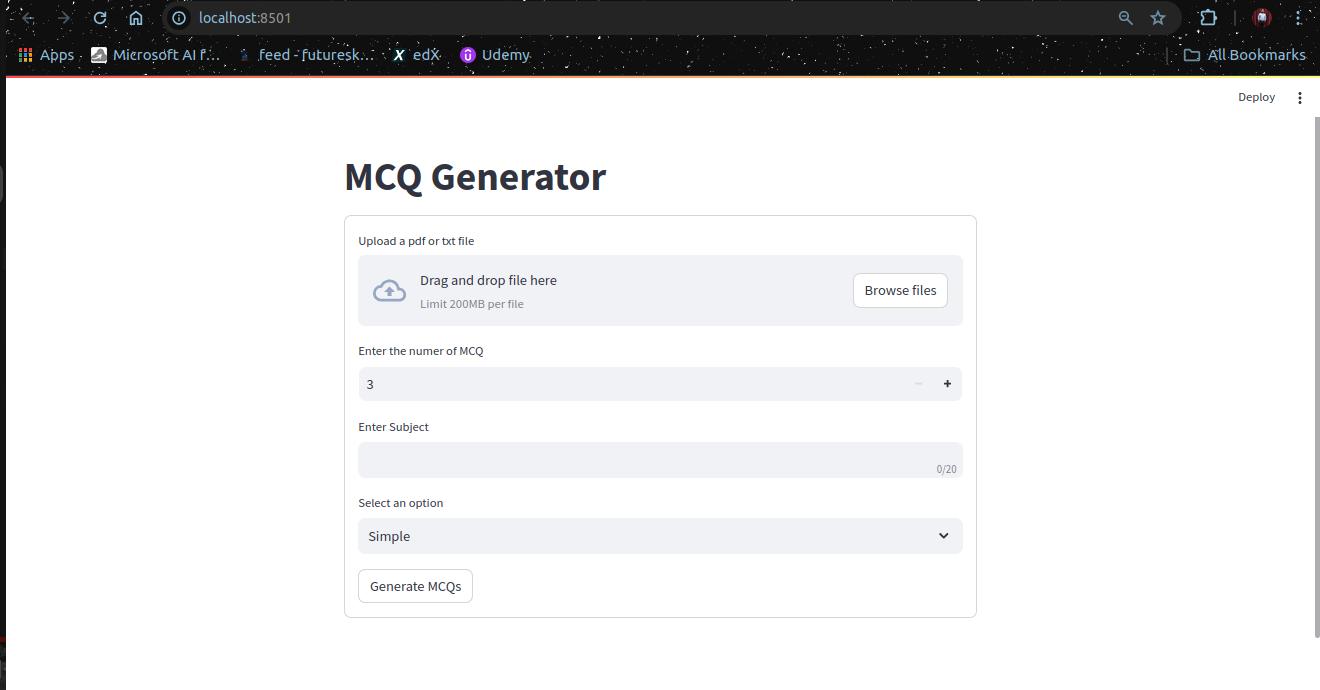
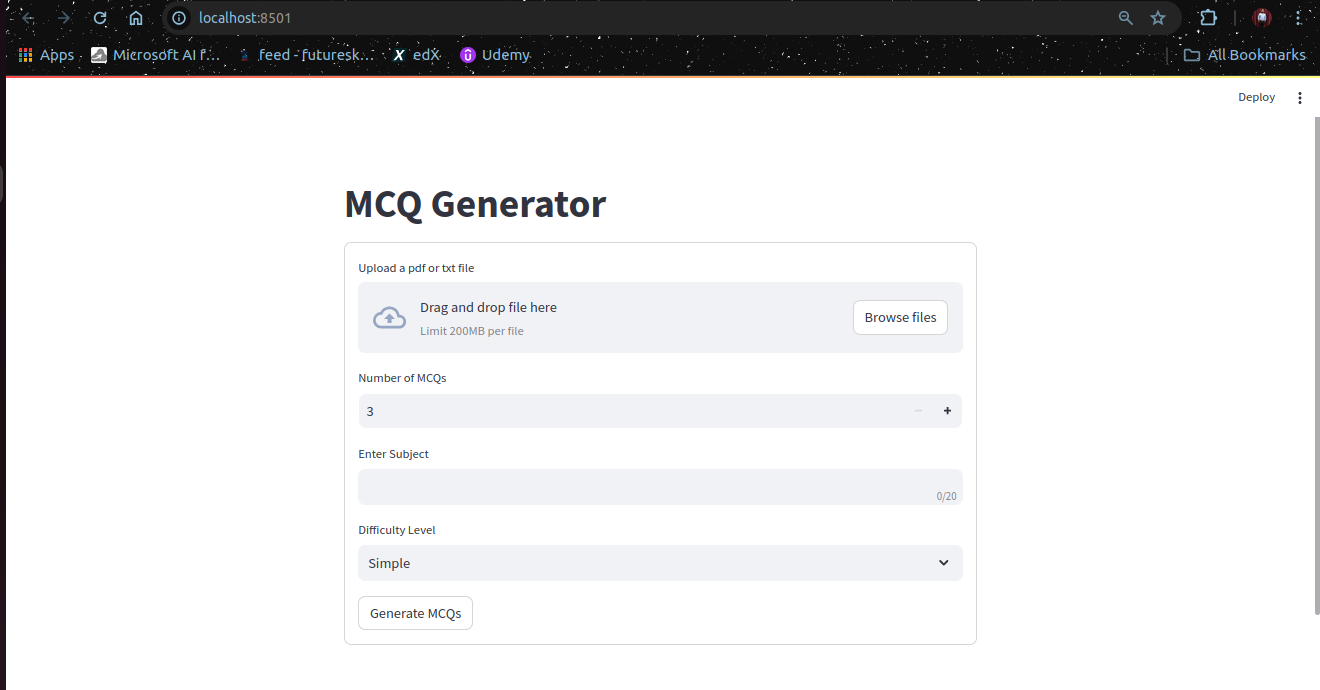
Updated streamlit App

diff --git a/StreamlitApp.py b/StreamlitApp.py
@@ -24,13 +24,13 @@ with st.form ("user_inputs"):
     uploaded_file= st.file_uploader("Upload a pdf or txt file")
 
     # Input fields 
-    mcq_count = st.number_input("Enter the numer of MCQ ", min_value=3, max_value= 50)
+    mcq_count = st.number_input("Number of MCQs ", min_value=3, max_value= 50)
     
     # Subject
     subject= st.text_input("Enter Subject", max_chars=20)
 
     # Quiz Tone
-    tone= st.selectbox("Select an option", ["Simple", "Medium", "Hard"])
+    tone= st.selectbox("Difficulty Level", ["Simple", "Medium", "Hard"])
 
     # Adding Button 
     button = st.form_submit_button("Generate MCQs")
